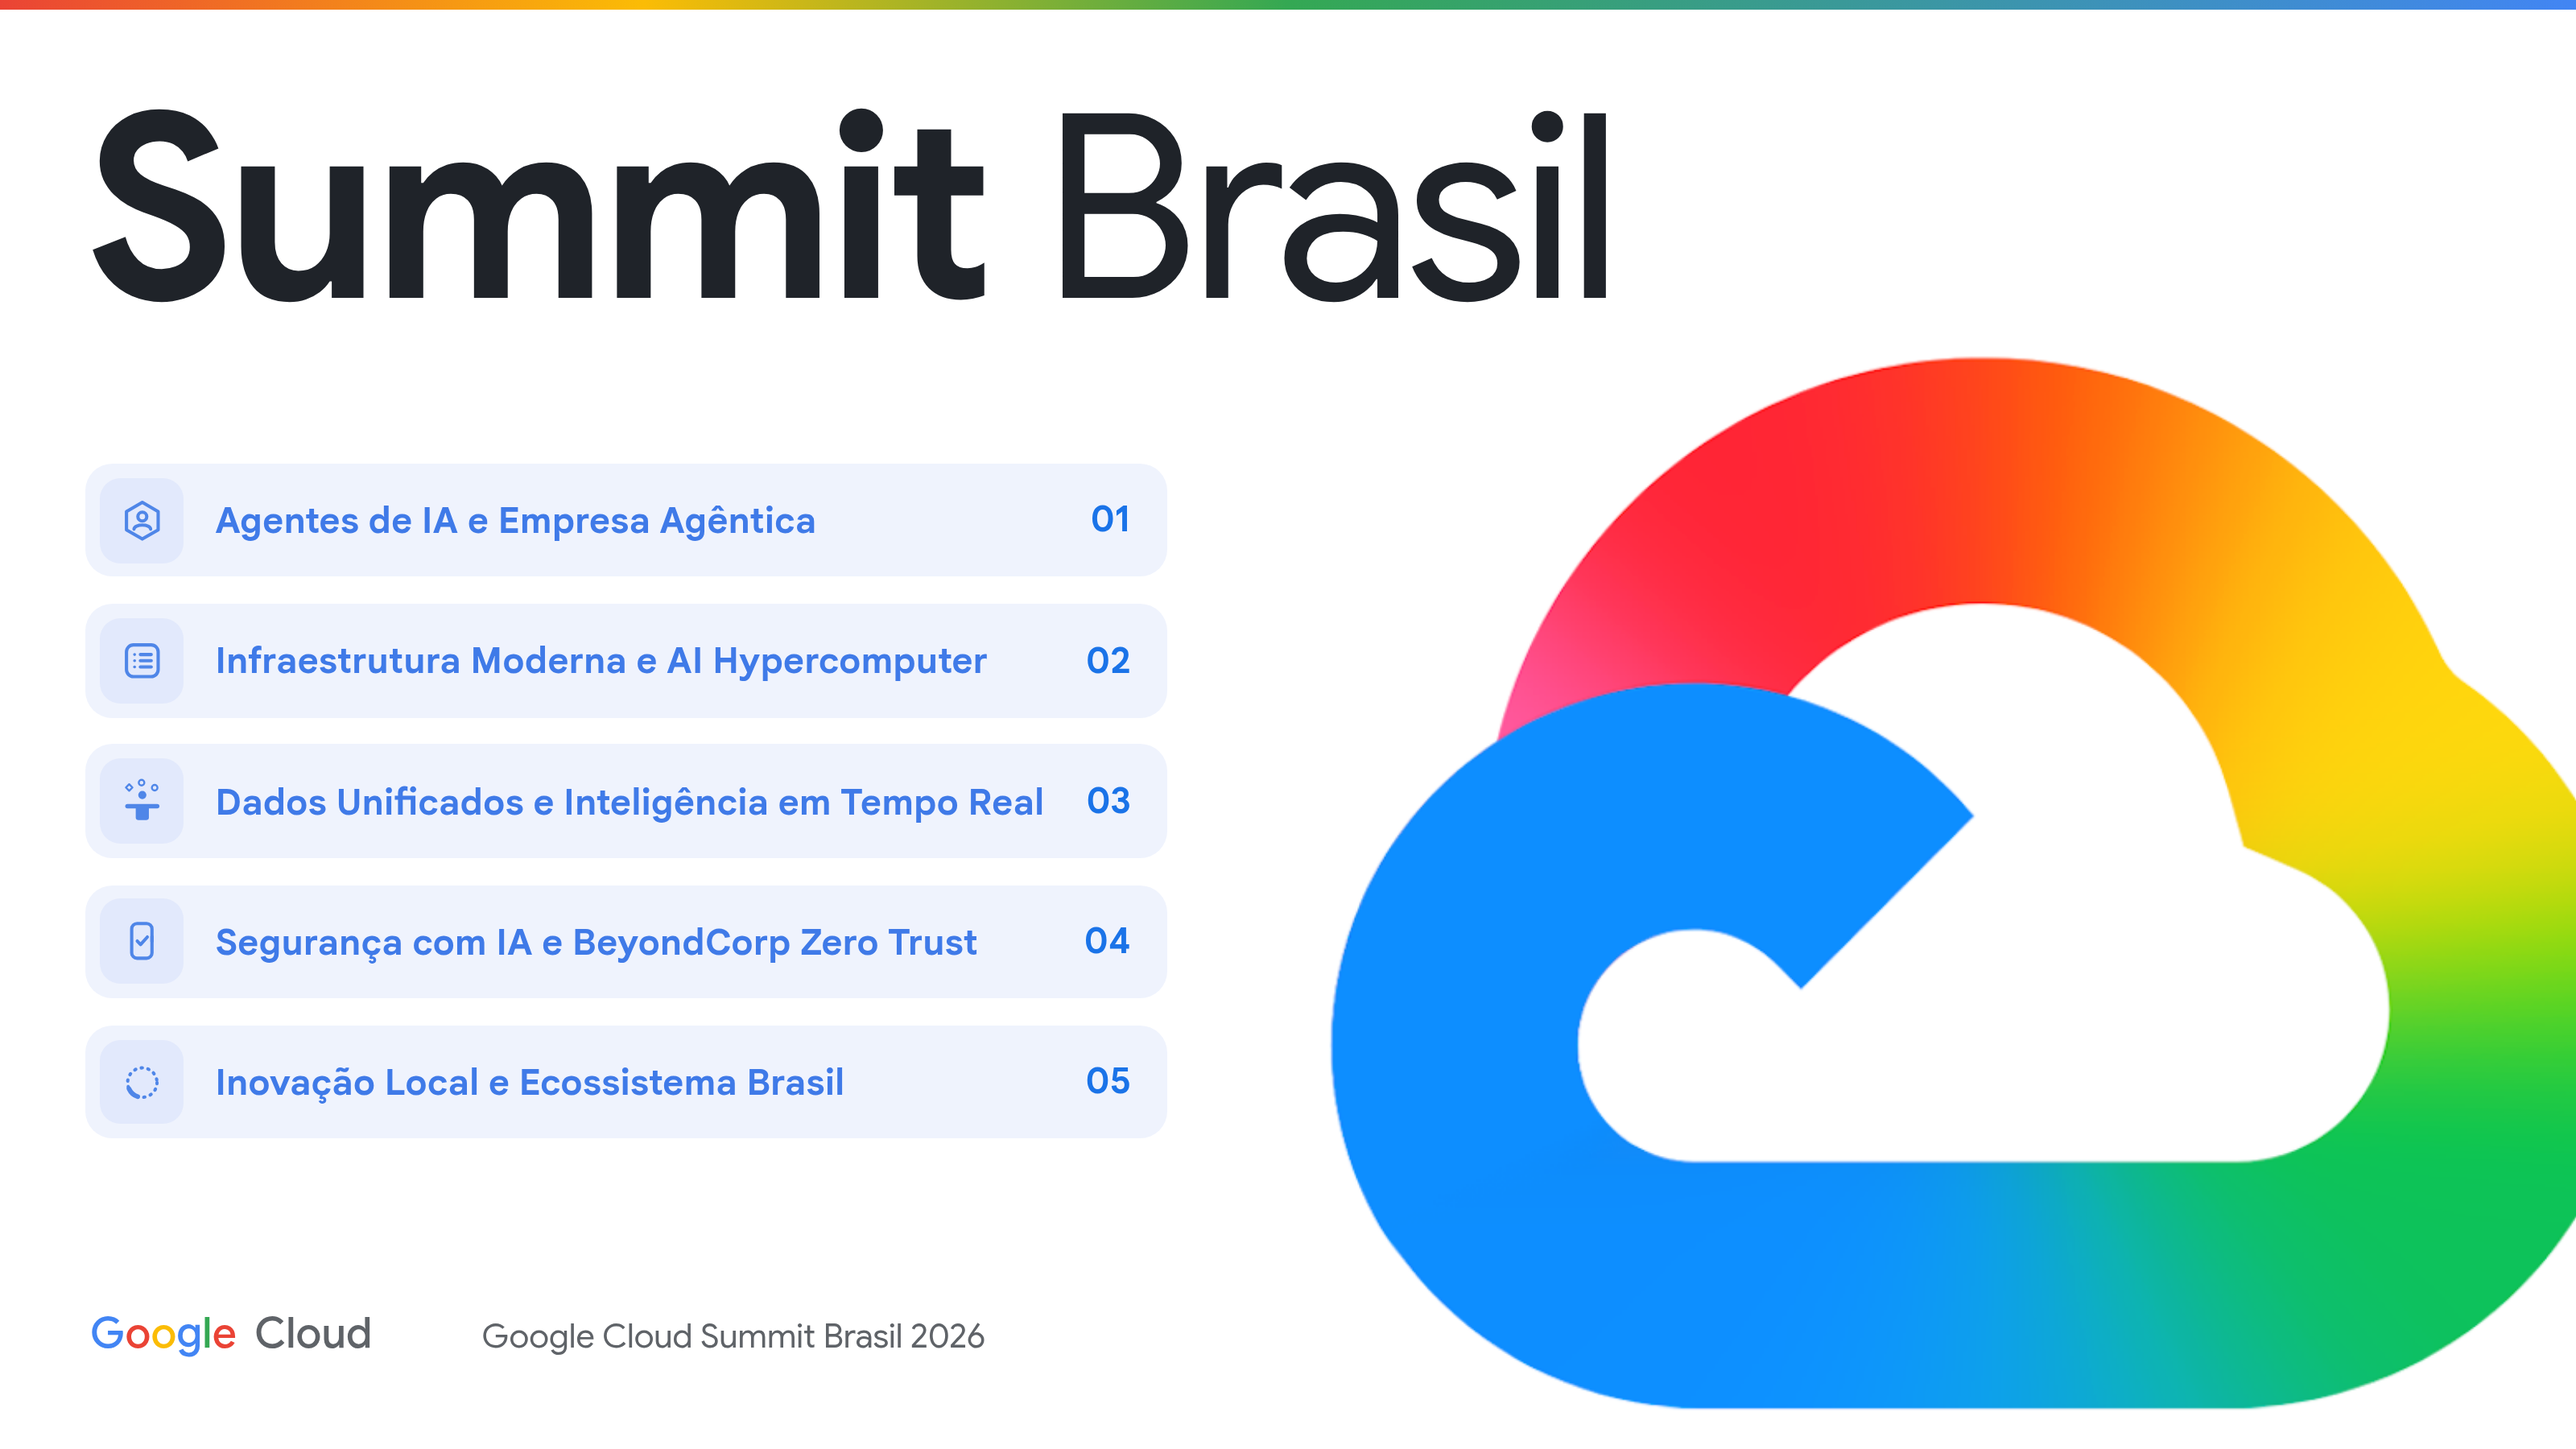
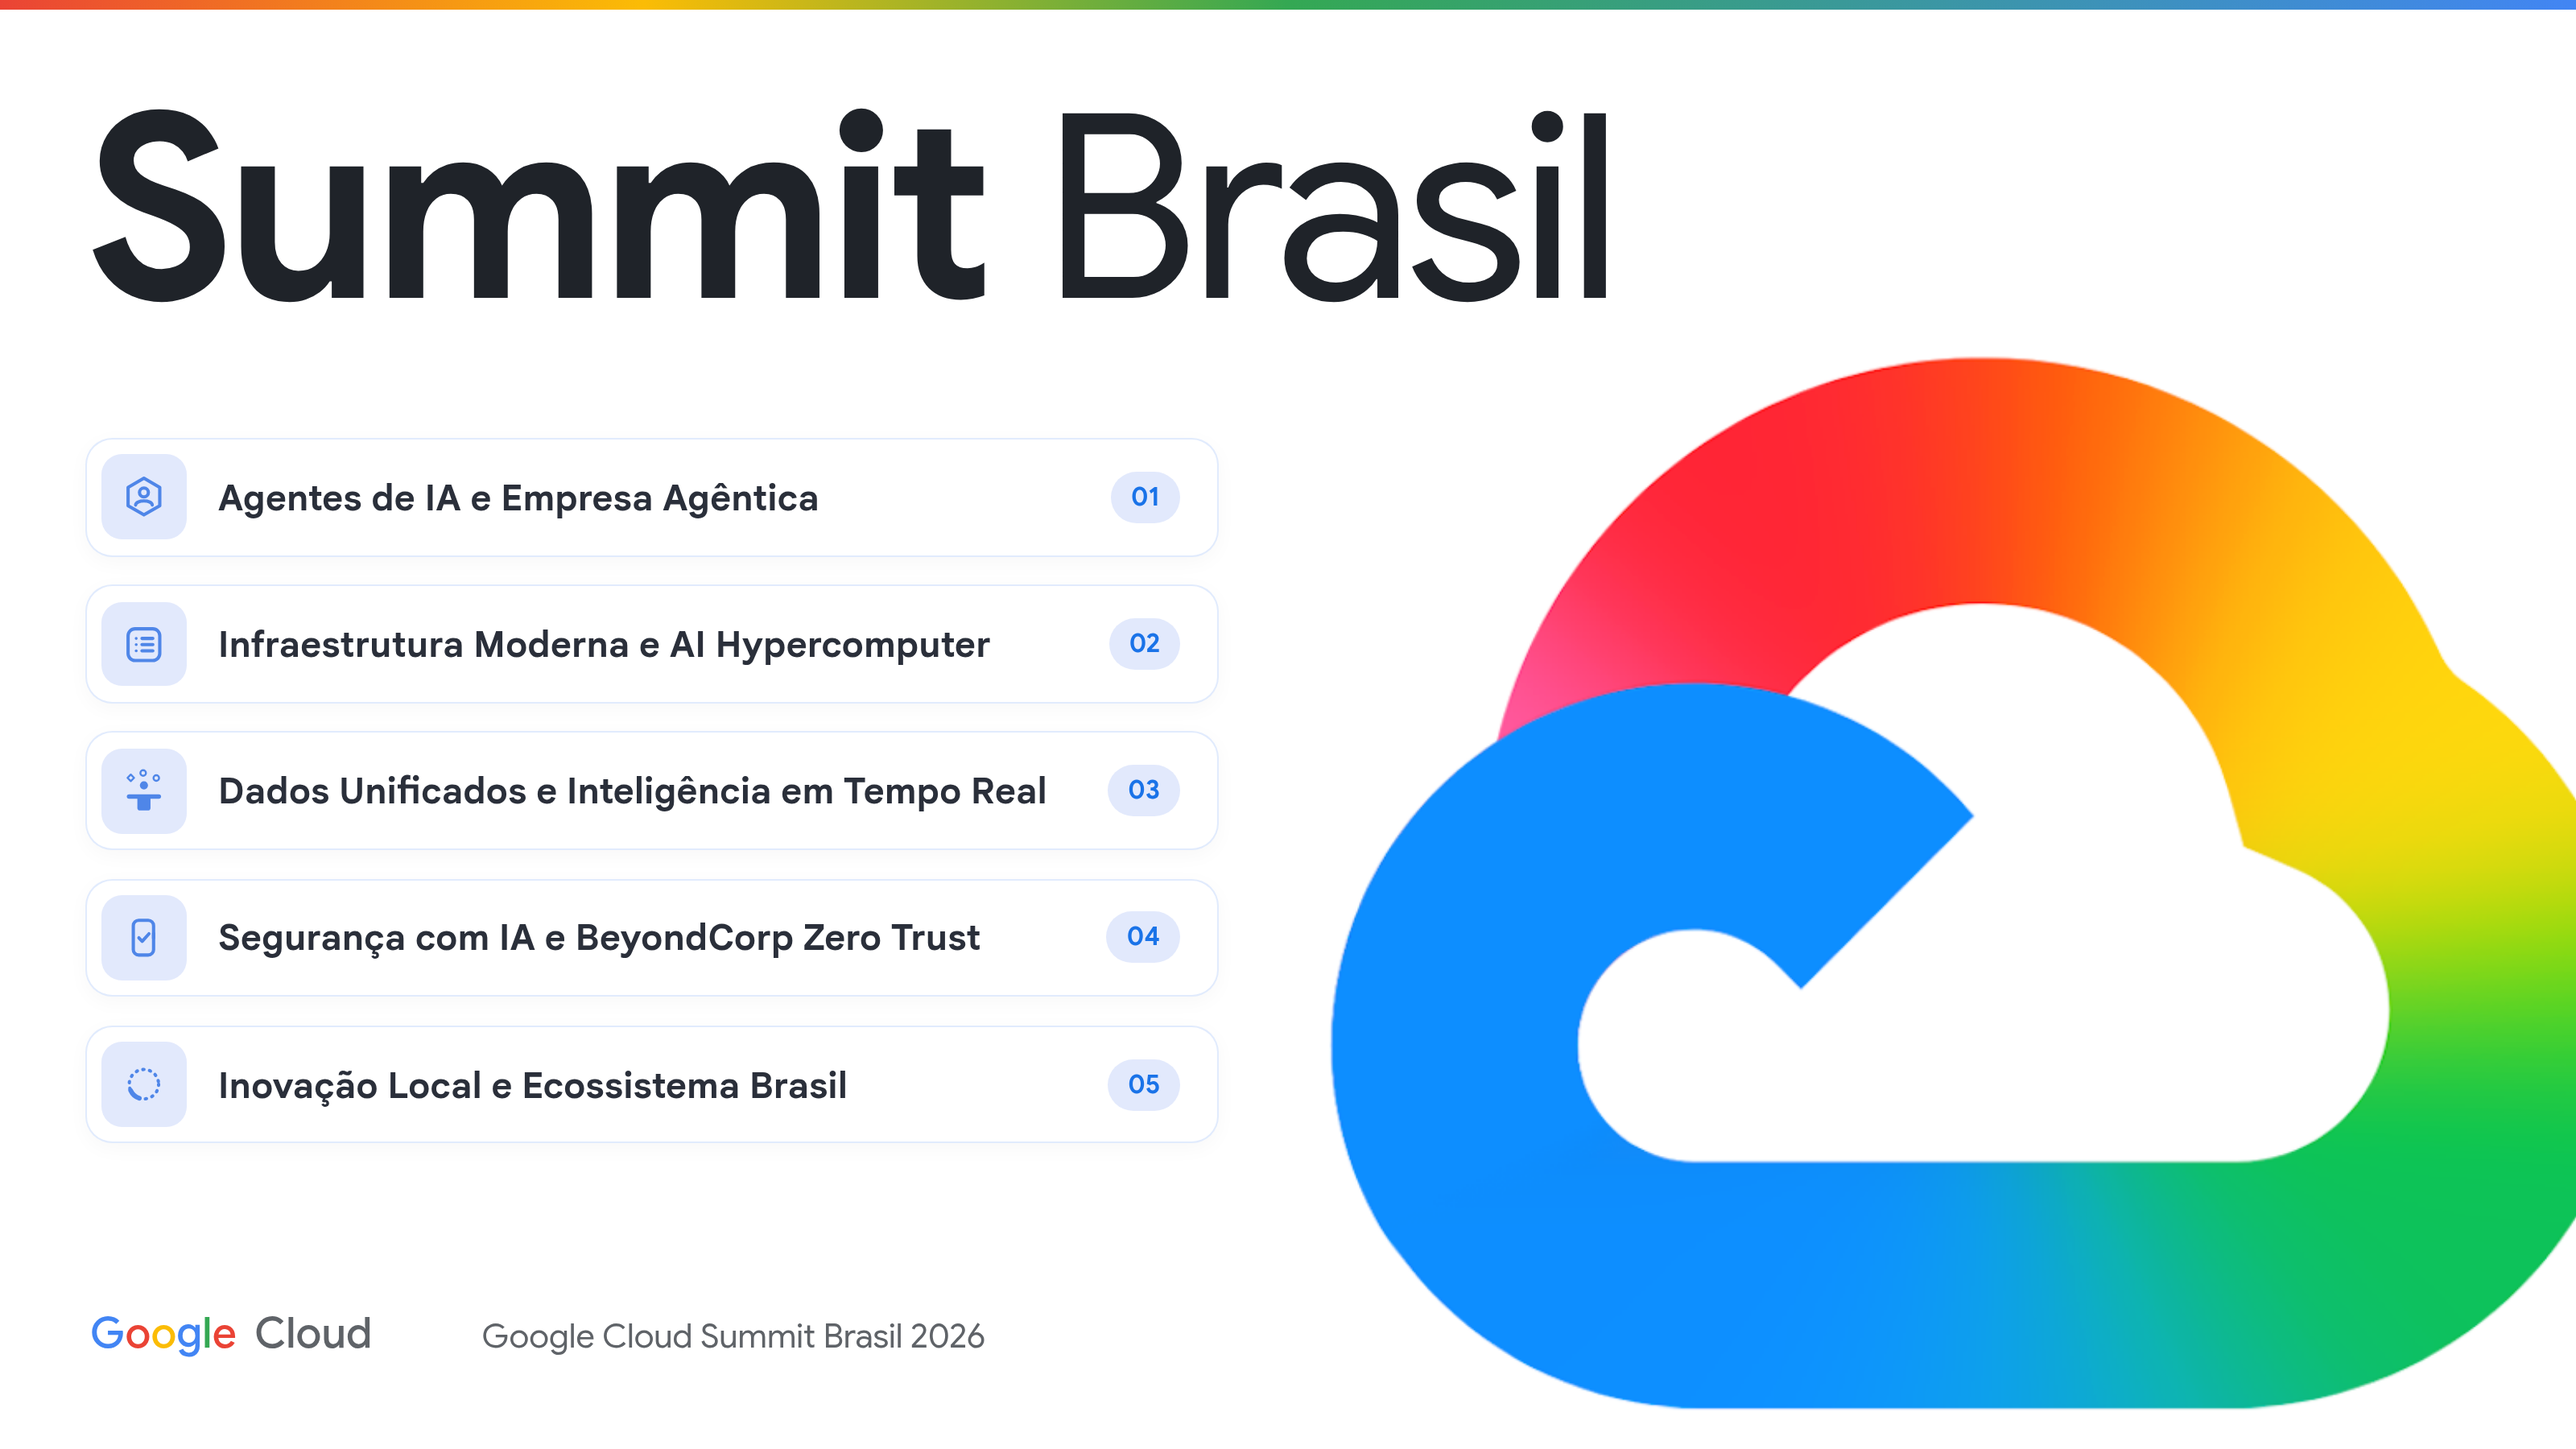
Refine UI buttons, interactive menu component cards, and card depth
- Transformed flat menu items into white elevated component tiles with subtle borders, hover micro-interactions, and Google Blue pill badges.
- Enhanced primary CTA buttons with hover elevation, shadow depth, and micro-transitions.
- Elevated demo card components with crisp borders, soft drop shadows, and hover transitions.
- Re-rendered all 12 desktop and mobile screenshots.

TAG=agy
CONV=0115c845-f4af-4da6-a951-9506ab856063

diff --git a/css/cloud-style.css b/css/cloud-style.css
@@ -216,17 +216,23 @@ svg { display: block; }
   display: inline-flex;
   align-items: center;
   justify-content: center;
+  gap: 0.8cqw;
   border-radius: var(--gc-radius-pill);
   background: var(--gc-blue-action);
   color: #fff;
   font-family: var(--gc-font-display);
   font-size: var(--gc-text-body-lg);
   font-weight: 500;
-  padding: 0.9cqw 2.1cqw;
-  box-shadow: var(--gc-shadow-action);
-  transition: background-color var(--gc-dur-hover);
+  padding: 0.9cqw 2.4cqw;
+  box-shadow: 0 0.2cqw 0.6cqw rgba(26, 115, 232, 0.25);
+  transition: background-color var(--gc-dur-hover), transform var(--gc-dur-hover), box-shadow var(--gc-dur-hover);
 }
-.gc-btn:hover { background: var(--gc-blue-action-hover); }
+.gc-btn:hover {
+  background: var(--gc-blue-action-hover);
+  transform: translateY(-0.15cqw);
+  box-shadow: 0 0.4cqw 1cqw rgba(26, 115, 232, 0.35);
+}
+.gc-btn:active { transform: translateY(0); }
 
 .gc-btn--cover {
   position: absolute;
@@ -245,10 +251,13 @@ svg { display: block; }
   border-radius: 50%;
   background: var(--gc-blue-action);
   color: #fff;
-  box-shadow: var(--gc-shadow-action);
-  transition: background-color var(--gc-dur-hover);
+  box-shadow: 0 0.2cqw 0.6cqw rgba(26, 115, 232, 0.28);
+  transition: background-color var(--gc-dur-hover), transform var(--gc-dur-hover);
 }
-.gc-icon-btn:hover { background: var(--gc-blue-action-hover); }
+.gc-icon-btn:hover {
+  background: var(--gc-blue-action-hover);
+  transform: scale(1.06);
+}
 .gc-icon-btn svg { width: 1.4cqw; height: 1.4cqw; }
 
 /* Neutral variant — secondary controls on white. */
@@ -286,30 +295,37 @@ svg { display: block; }
 .gc-icon-tile--sm { width: 2.9cqw; height: 2.9cqw; border-radius: 0.7cqw; }
 
 /* -----------------------------------------------------------------------------
-   8. MENU — the numbered category list on the index screen.
+   8. MENU — the interactive component category list on index screen.
    -------------------------------------------------------------------------- */
 .gc-menu {
   position: absolute;
   left: var(--gc-gutter);
-  top: 18cqw;
+  top: 17cqw;
   display: flex;
   flex-direction: column;
-  gap: var(--gc-gap-row);
-  width: 42cqw;
+  gap: 1.1cqw;
+  width: 44cqw;
 }
 
 .gc-menu-item {
   display: flex;
   align-items: center;
-  height: 4.4cqw;
-  padding-left: 0.55cqw;
+  height: 4.6cqw;
+  padding-left: 0.6cqw;
   padding-right: 1.4cqw;
   border-radius: var(--gc-radius-row);
-  background: var(--gc-blue-tint-070);
+  background: #ffffff;
+  border: 0.1cqw solid rgba(66, 133, 244, 0.16);
+  box-shadow: 0 0.2cqw 0.8cqw rgba(0, 0, 0, 0.03);
   text-align: left;
-  transition: background-color var(--gc-dur-hover);
+  transition: background-color var(--gc-dur-hover), border-color var(--gc-dur-hover), transform var(--gc-dur-hover), box-shadow var(--gc-dur-hover);
 }
-.gc-menu-item:hover { background: var(--gc-blue-tint-090); }
+.gc-menu-item:hover {
+  background: var(--gc-blue-tint-050);
+  border-color: var(--gc-blue-brand);
+  transform: translateX(0.4cqw);
+  box-shadow: 0 0.4cqw 1.2cqw rgba(26, 115, 232, 0.14);
+}
 
 .gc-menu-label {
   flex: 1;
@@ -318,13 +334,16 @@ svg { display: block; }
   font-size: var(--gc-text-label);
   font-weight: 600;
   line-height: 1.25;
-  color: var(--gc-blue-brand);
+  color: var(--gc-ink-800);
 }
 
 .gc-menu-num {
   margin-left: 1cqw;
-  font-family: var(--gc-font-text);
-  font-size: var(--gc-text-label);
+  padding: 0.25cqw 0.8cqw;
+  border-radius: var(--gc-radius-pill);
+  background: var(--gc-blue-tint-100);
+  font-family: var(--gc-font-display);
+  font-size: var(--gc-text-body-sm);
   font-weight: 700;
   color: var(--gc-blue-action);
 }
@@ -399,9 +418,16 @@ svg { display: block; }
   height: 100%;
   overflow: hidden;
   border-radius: var(--gc-radius-card);
-  background: var(--gc-blue-tint-080);
-  box-shadow: var(--gc-shadow-card);
+  background: #ffffff;
+  border: 0.1cqw solid var(--gc-border-soft);
+  box-shadow: 0 0.3cqw 1cqw rgba(0, 0, 0, 0.05);
   text-align: left;
+  transition: transform var(--gc-dur-hover), box-shadow var(--gc-dur-hover), border-color var(--gc-dur-hover);
+}
+.gc-card:hover {
+  transform: translateY(-0.3cqw);
+  box-shadow: 0 0.6cqw 1.6cqw rgba(26, 115, 232, 0.16);
+  border-color: var(--gc-blue-outline);
 }
 
 .gc-card-head {
